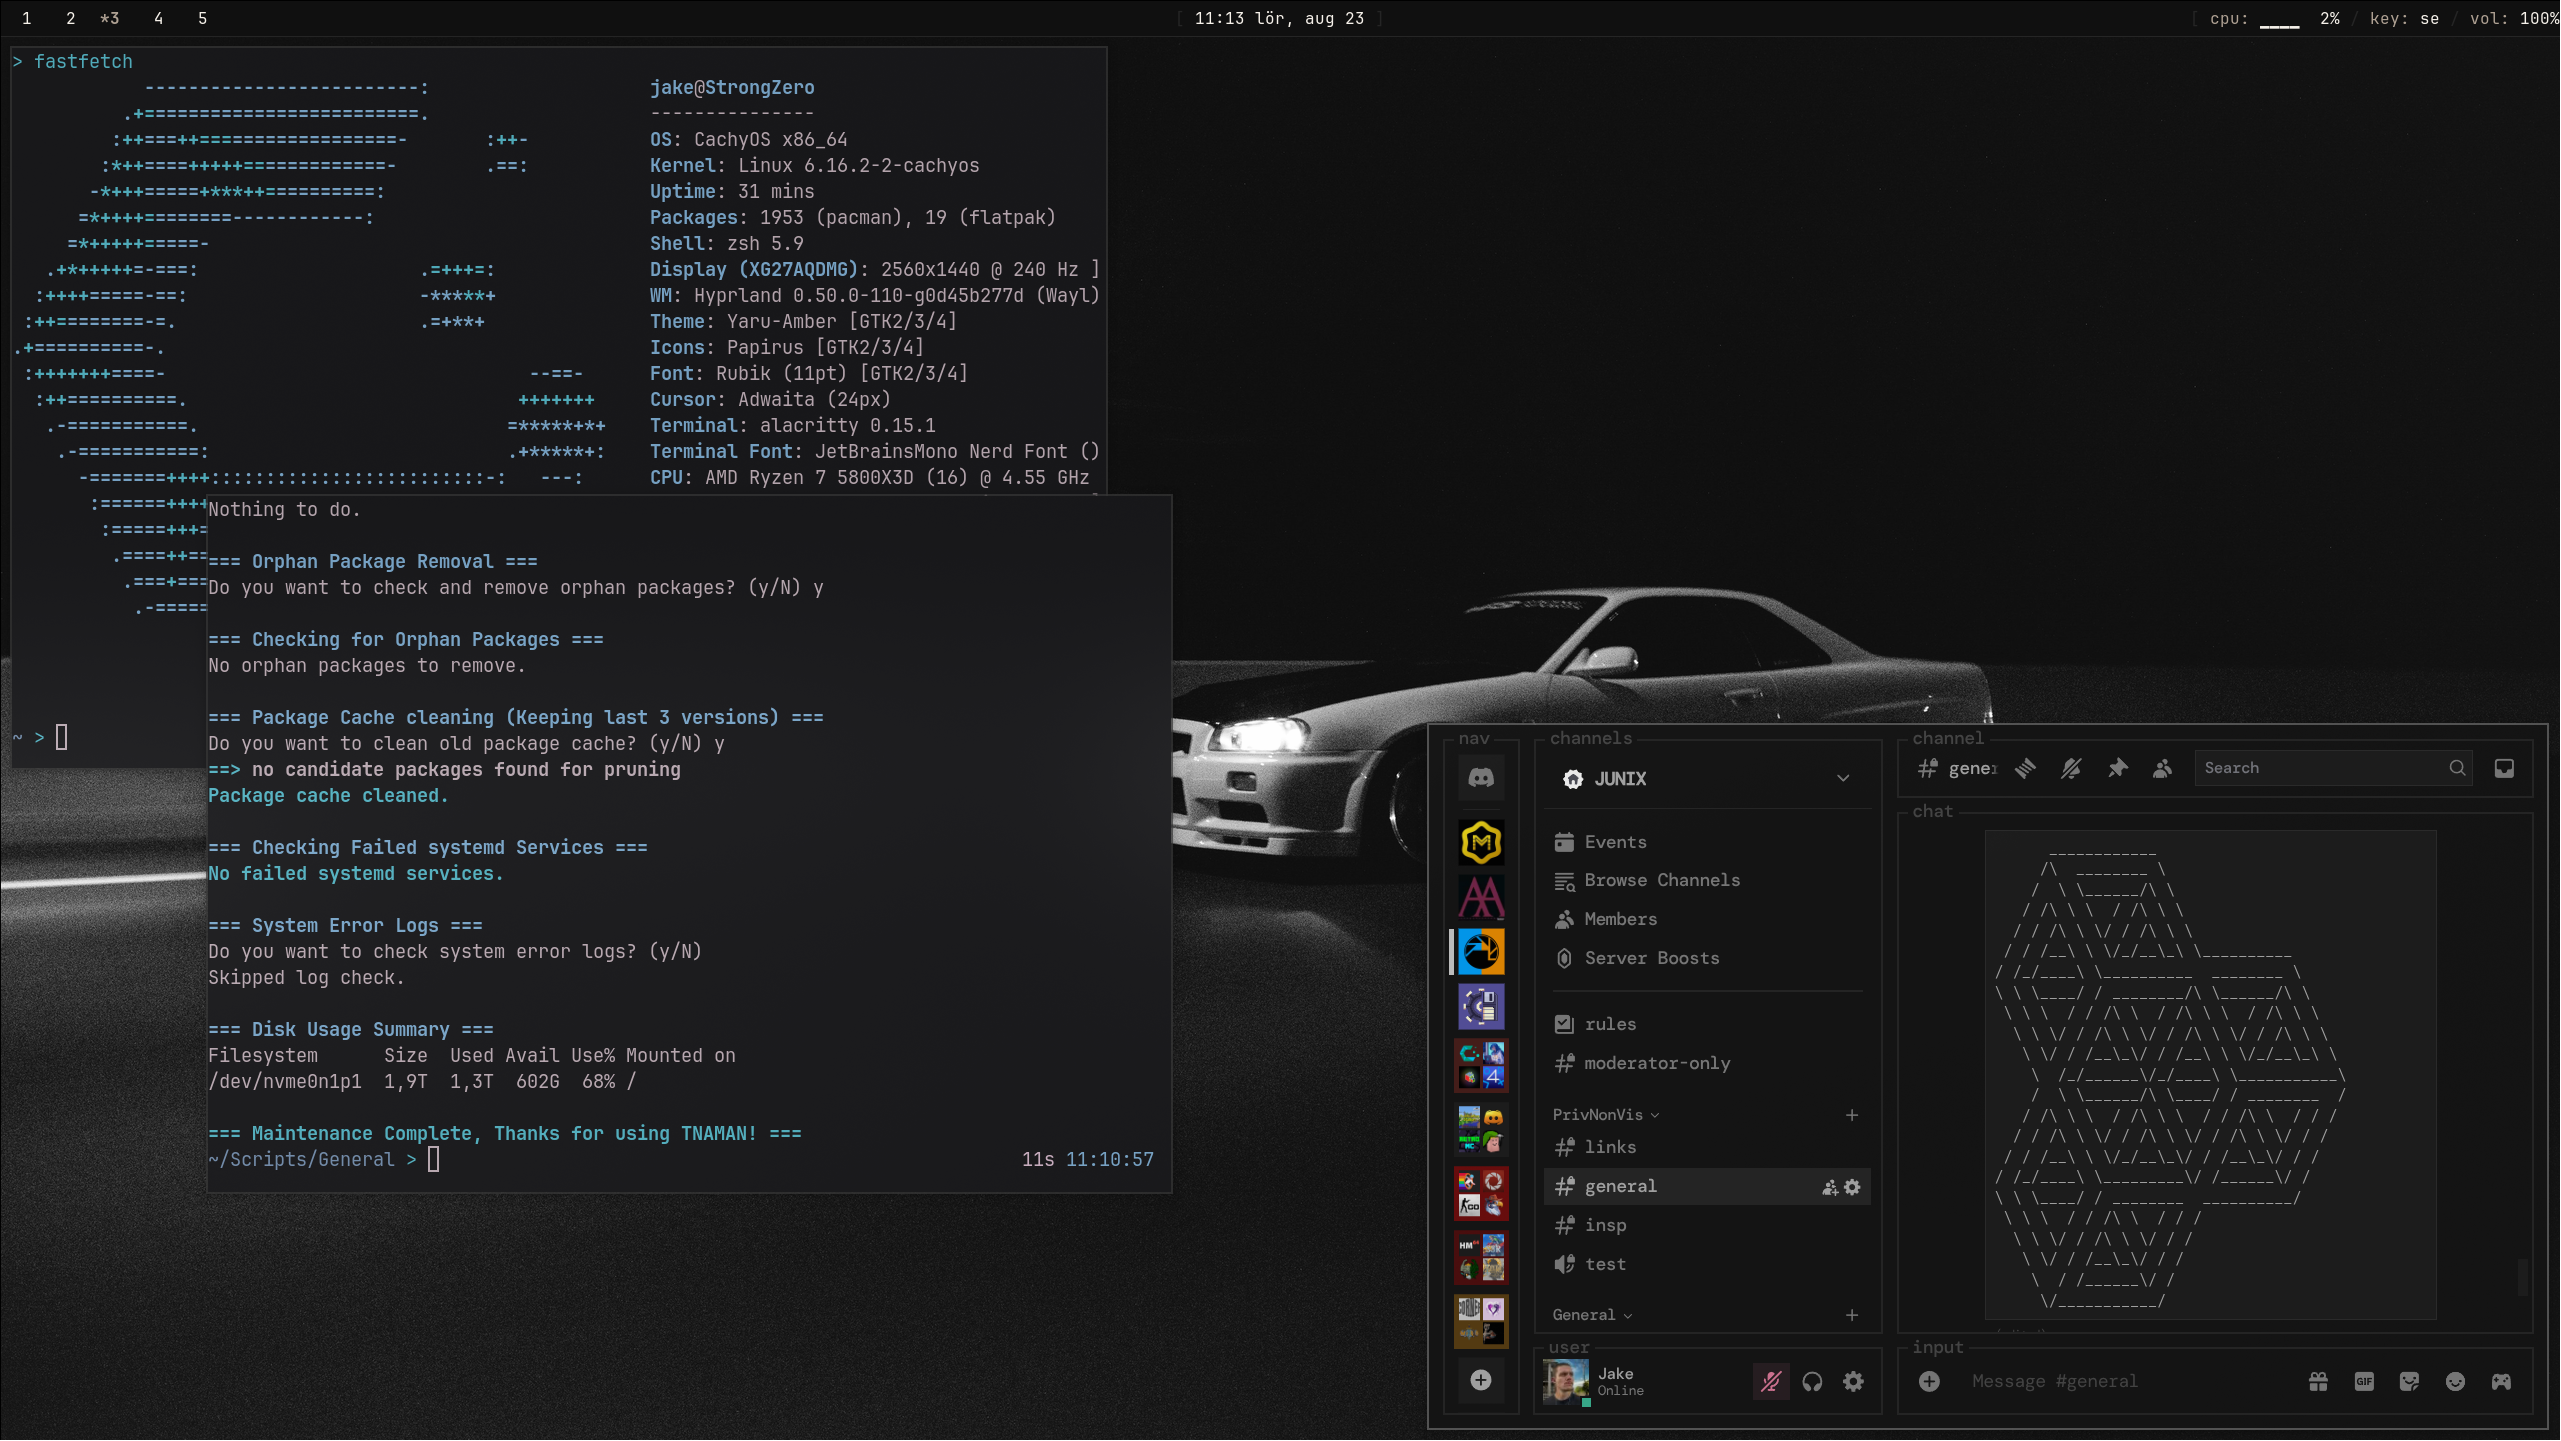
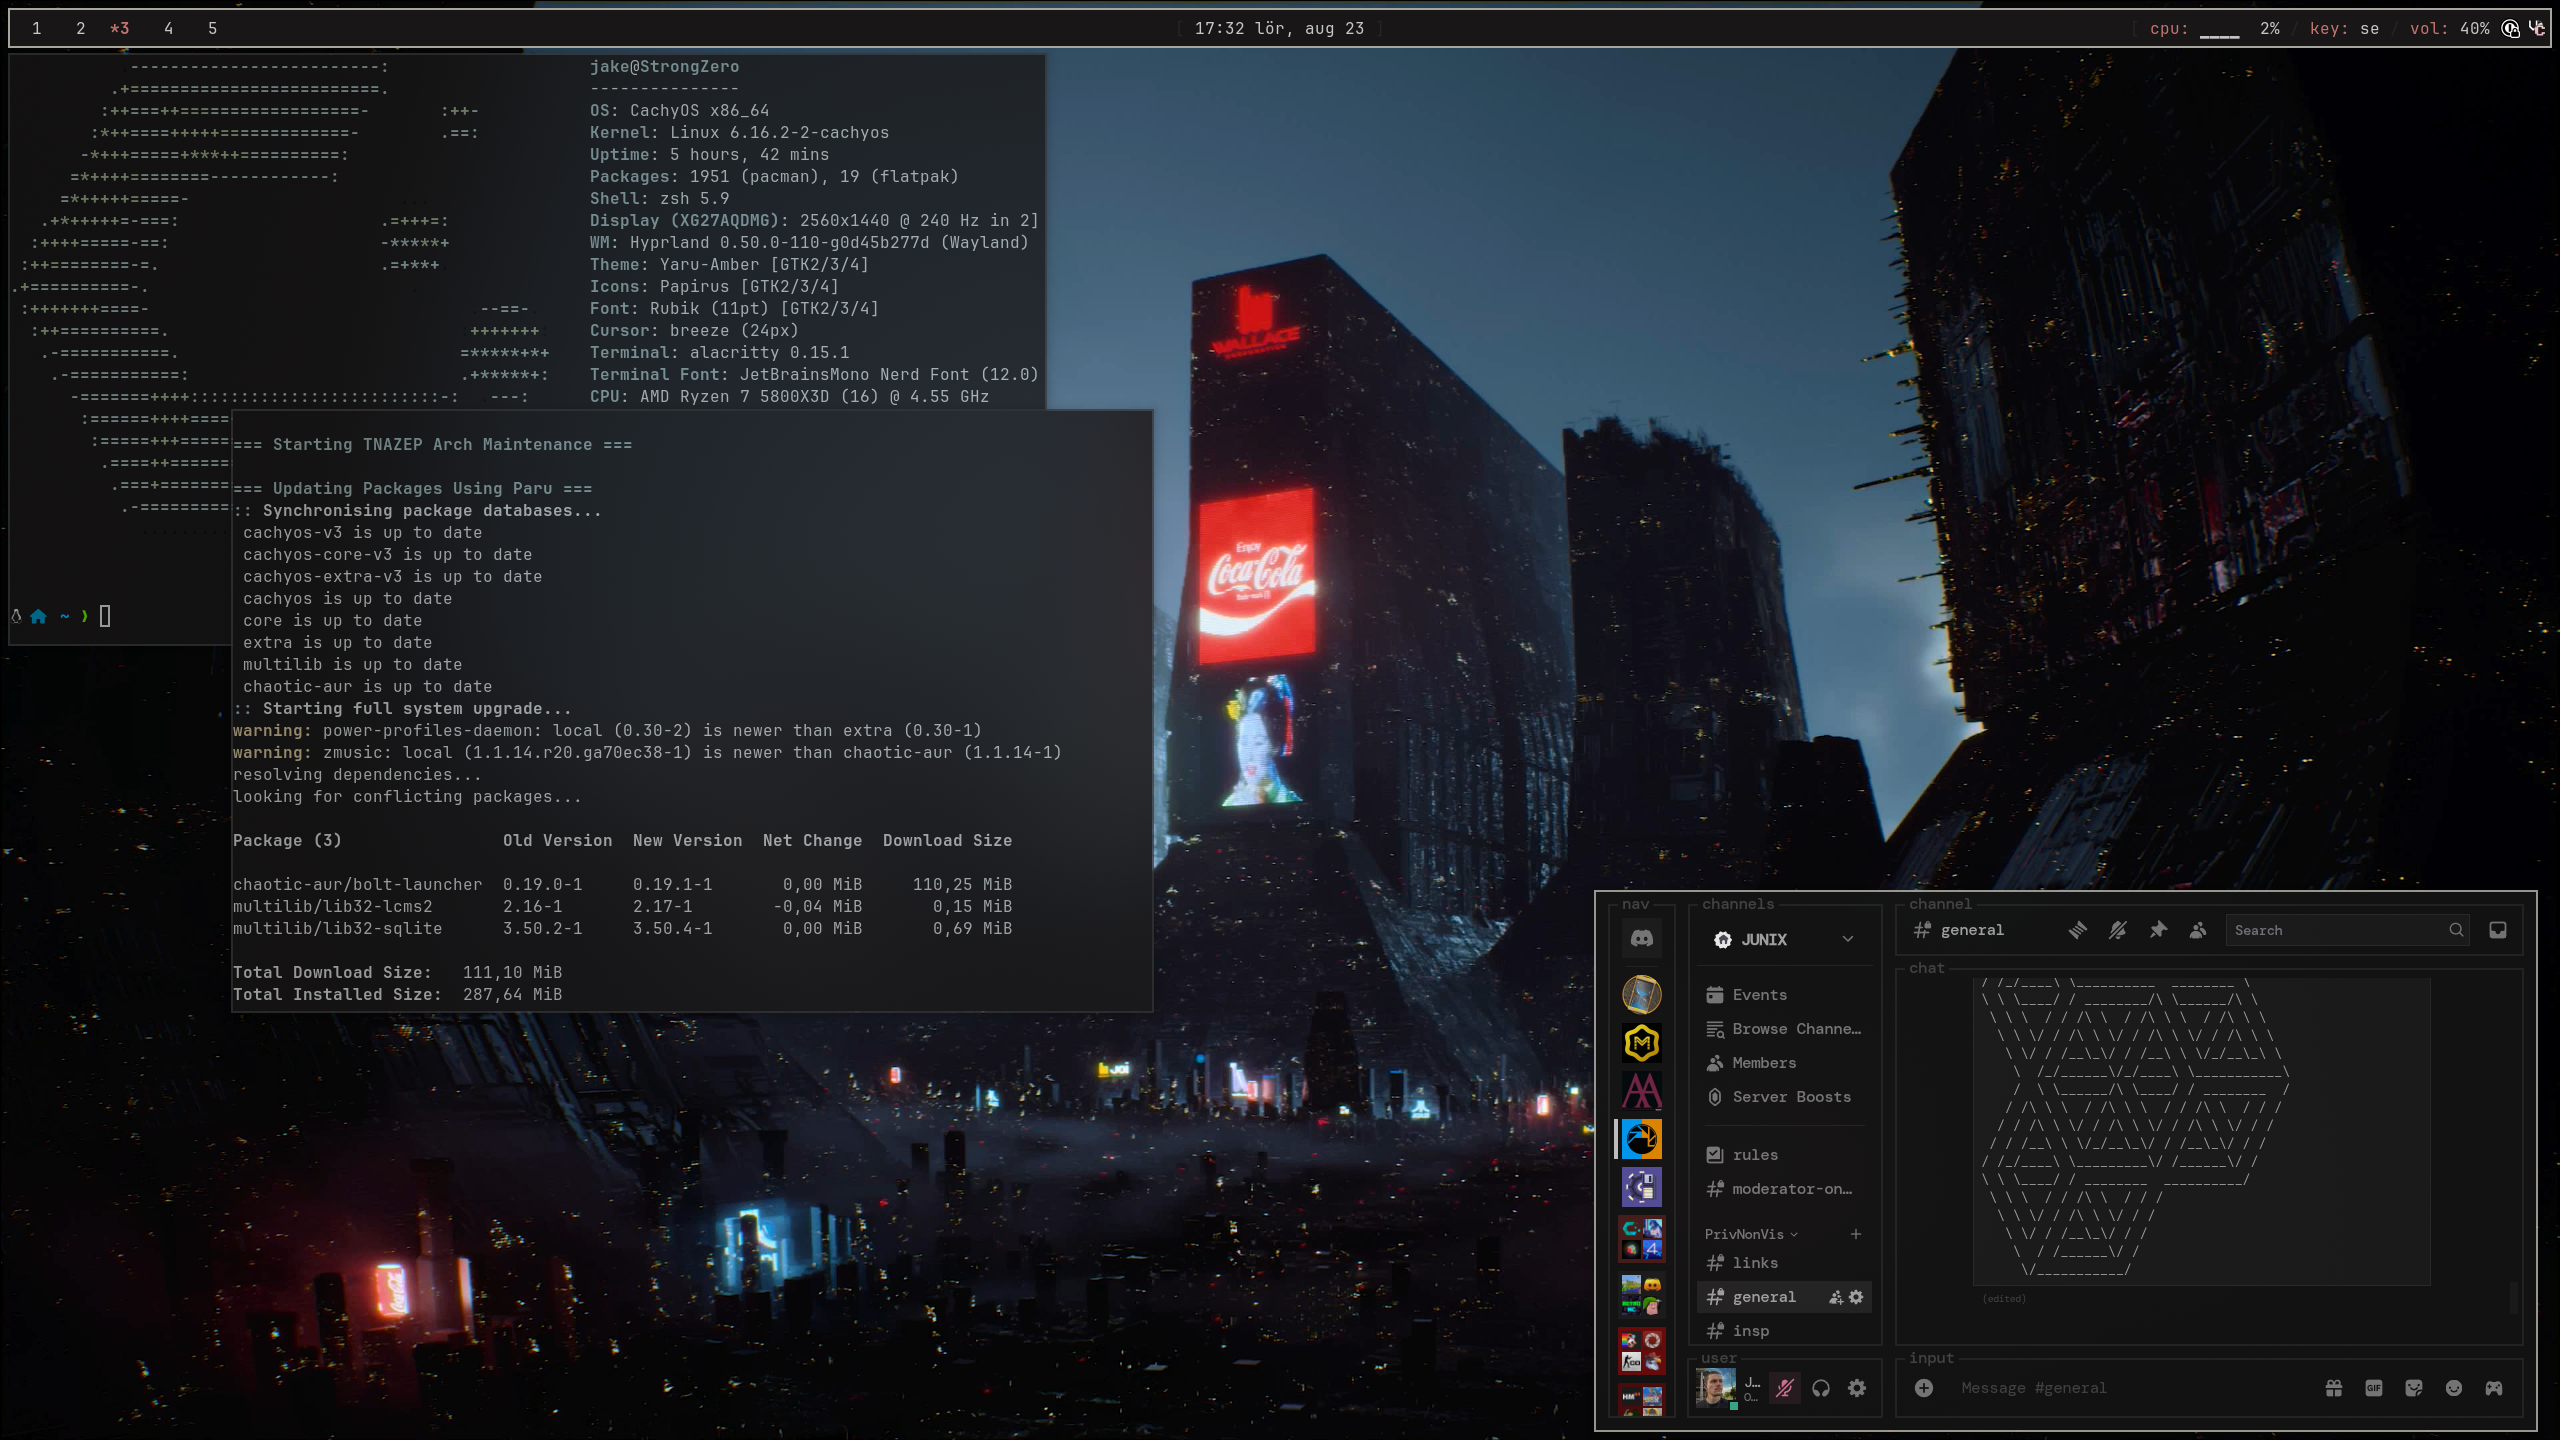
Further adjustments and Colour scheme swap
Swap to Kanagawa-dragon

diff --git a/.config/waybar/style.css b/.config/waybar/style.css
@@ -1,16 +1,21 @@
-@define-color accent #afa193;
-@define-color fg #f6f1ea;
-@define-color bg #101010;
-@define-color bg-alt #252525;
+@define-color accent #c4746e;
+@define-color fg #c5c9c5;
+@define-color bg #181616;
+@define-color bg-alt #a6a69c;
 
 * {
     font-size: 16px;
     min-height: 0;
 }
 
+
 window#waybar {
+    margin: 10px 10px 0px 10px;
     background-color: @bg;
-    border-bottom: 1px solid @bg-alt;
+    border-bottom: 2px solid @bg-alt;
+    border-left: 2px solid @bg-alt;
+    border-right: 2px solid @bg-alt;
+    border-top: 2px solid @bg-alt;
 }
 
 #mode {
@@ -31,7 +36,9 @@ window#waybar {
 
 #workspaces {
     font-family: "JetBrainsMono Nerd Font";
-    border-bottom: 1px solid @bg-alt;
+    border-bottom: 2px solid @bg-alt;
+    border-left: 2px solid @bg-alt;
+    border-top: 2px solid @bg-alt;
 }
 
 #workspaces button {
